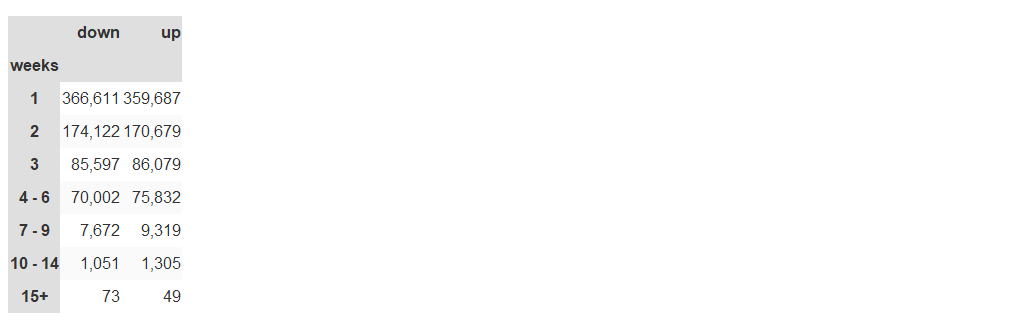
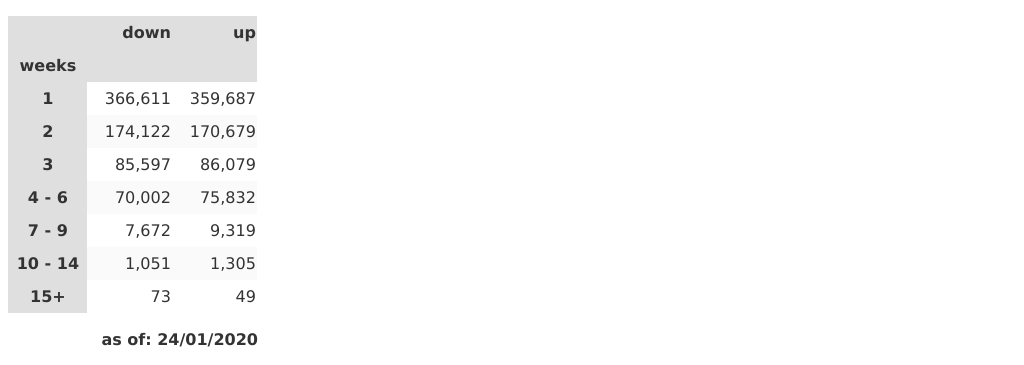
added asofdate

diff --git a/HTML/table.css b/HTML/table.css
@@ -1,12 +1,18 @@
 <style type=\"text/css\">
 html, body {
-    width: 400px}
-table {
+    /* width: 200px; */
+}
+table, p {
+    width: 250px;
     color: #333;
     font-family: Helvetica, Arial, sans-serif;
     border-collapse:
     collapse;
     border-spacing: 0;
+}
+p  {
+    font-weight: bold;
+    text-align: right;
 }
 td, th {
     border: 1px solid transparent; /* No more visible border */

diff --git a/HTML/table1.html b/HTML/table1.html
@@ -55,7 +55,8 @@
       <td>49</td>
     </tr>
   </tbody>
-</table>
+</table><p> as of: 24/01/2020</p>
+
 </p>
 </body>
 </html>

diff --git a/HTML/asofdate.html b/HTML/asofdate.html
@@ -1,0 +1,1 @@
+<p> as of: 24/01/2020</p>

diff --git a/summary.py b/summary.py
@@ -5,23 +5,31 @@ Created on Wed Jan 22 21:19:33 2020
 
 @author: matthiasschoener
 """
-import os
+# import os
 import pandas as pd
 # import matplotlib.pyplot as plt
 import imgkit
-import datetime
-import pytz
+#import datetime
+# import pytz
 
 # check on recency of CSVs
-timezone = pytz.timezone("America/Los_Angeles")
-with os.scandir() as fhandles:
-    last_created = min([fhandle.stat().st_mtime for fhandle in fhandles])
-asofdt = datetime.datetime.fromtimestamp(last_created,
-                                         tz=timezone).strftime("%m/%d/%Y")
+# timezone = pytz.timezone("America/Los_Angeles")
+# with os.scandir('./CSVs') as fhandles:
+#     last_created = min([fhandle.stat().st_mtime for fhandle in fhandles])
+# asofdt = datetime.datetime.fromtimestamp(last_created,
+#                                          tz=timezone).strftime("%m/%d/%Y")
 
 df1 = pd.read_csv('streaks.csv', header=0)
 df1['up'] = df1.up.astype(bool)
 df1 = df1[df1['length'] != 0]
+
+# the most recent streak enddate is the "asofdate" for the data
+asofdtlist = df1.enddate.max().split('-')
+asofdt = '/'.join([asofdtlist[i] for i in [2, 1, 0]])
+
+with open('./HTML/asofdate.html', 'w') as f:
+    f.write(f'<p> as of: {asofdt}</p>\n')
+    f.close()
 
 
 def binned(x):
@@ -62,6 +70,7 @@ with open('./HTML/data.html', 'w') as htmlfile:
 # combine css and html
 fnames = ['./HTML/head.html',
           './HTML/data.html',
+          './HTML/asofdate.html',
           './HTML/bottom.html']
 with open('./HTML/table1.html', 'w') as htmlfile:
     for fname in fnames:
